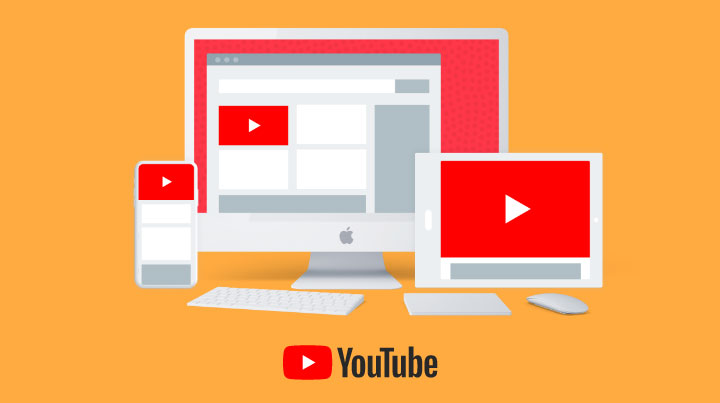
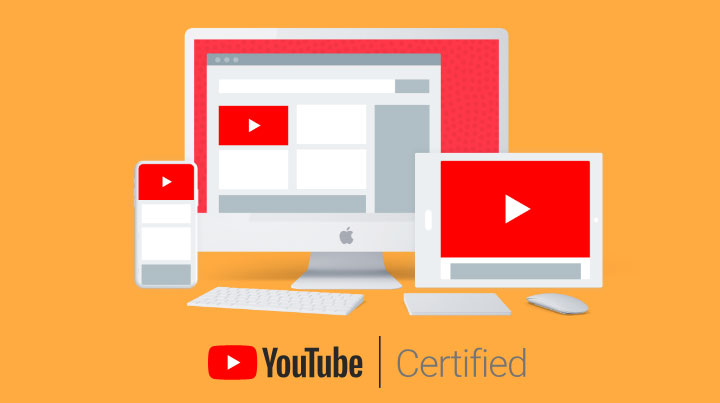
Removed headings and address footer. - Also updated the youtube image.

Changed region(s): [[0.275, 0.8337, 0.7333, 0.9529]]

diff --git a/index.html b/index.html
@@ -33,7 +33,7 @@
         }
         @media screen and (max-width: 630px) {
             br {
-                display: none !important;
+                /* display: none !important; */
             }
         }
         @media screen and (min-width: 630px) {
@@ -72,7 +72,7 @@
 
                     <!--------------------------------------------------------- Spacer -->
                     <tr>
-                        <td height="40"></td>
+                        <td height="20"></td>
                     </tr>
                     <!--------------------------------------------------------- Spacer -->
 
@@ -80,14 +80,14 @@
                         <td align="center" valign="top"
                             style="font-family: 'Raleway', sans-serif; font-size: 2.25em; font-weight: 700; text-align: center; line-height: 1; color: #000000;">
                             <span>
-                                Your Trusted YouTube <br> Creative Partner
+                                Your Trusted <br> YouTube Creative Partner
                             </span>
                         </td>
                     </tr>
 
                     <!--------------------------------------------------------- Spacer -->
                     <tr>
-                        <td height="20"></td>
+                        <td height="40"></td>
                     </tr>
                     <!--------------------------------------------------------- Spacer -->
 
@@ -126,21 +126,6 @@
 
                     <!--------------------------------------------------------- Spacer -->
                     <tr>
-                        <td height="40"></td>
-                    </tr>
-                    <!--------------------------------------------------------- Spacer -->
-
-                    <tr>
-                        <td align="center" valign="top"
-                            style="font-family: 'Raleway', sans-serif; font-size: 2.25em; font-weight: 700; text-align: center; line-height: 1; color: #000000;">
-                            <span>
-                                Kim Havens joins as <br> VP, Content Production
-                            </span>
-                        </td>
-                    </tr>
-
-                    <!--------------------------------------------------------- Spacer -->
-                    <tr>
                         <td height="20"></td>
                     </tr>
                     <!--------------------------------------------------------- Spacer -->
@@ -176,19 +161,6 @@
 
                     <!--------------------------------------------------------- Spacer -->
                     <tr>
-                        <td height="40"></td>
-                    </tr>
-                    <!--------------------------------------------------------- Spacer -->
-
-                    <tr>
-                        <td align="center" valign="top"
-                            style="font-family: 'Raleway', sans-serif; font-size: 2.25em; font-weight: 700; text-align: center; line-height: 1; color: #000000;">
-                            Much more to come!
-                        </td>
-                    </tr>
-
-                    <!--------------------------------------------------------- Spacer -->
-                    <tr>
                         <td height="20"></td>
                     </tr>
                     <!--------------------------------------------------------- Spacer -->
@@ -209,7 +181,8 @@
                         <td valign="top"
                             style="font-family: 'Roboto', sans-serif; font-size: 1em; line-height: 1.5; color: #000000;">
                             <p>We've been hard at work with new and emerging technology. Some of our projects include
-                                work in augmented reality, voice-enabled and visual search experiences. We're excited to
+                                work in augmented reality, voice-enabled and visual search experiences.</p>
+                            <p>We're excited to
                                 see them launch and even win awards. On the horizon are several more innovations we
                                 can't wait to share with you. As always, keep up with us on our social feeds! (links in
                                 the footer).</p>
@@ -218,7 +191,7 @@
 
                     <!--------------------------------------------------------- Spacer -->
                     <tr>
-                        <td height="40"></td>
+                        <td height="20"></td>
                     </tr>
                     <!--------------------------------------------------------- Spacer -->
 
@@ -233,36 +206,6 @@
 
                 <!-- Footer -->
                 <table border="0" cellpadding="0" cellspacing="0">
-
-                    <!--------------------------------------------------------- Spacer -->
-                    <tr>
-                        <td height="40"></td>
-                    </tr>
-                    <!--------------------------------------------------------- Spacer -->
-
-                    <tr>
-                        <td align="center" valign="top">
-                            <span style="font-family: 'Playfair Display', serif; font-size: 2.25em; color: #000000;">
-                                <i>Get in touch,</i>
-                            </span> <br>
-                            <span
-                                style="font-family: 'Raleway', sans-serif; font-size: 2.25em; font-weight: 700; text-align: center; line-height: 1; color: #000000;">
-                                We'd love to hear from you
-                            </span>
-                        </td>
-                    </tr>
-
-                    <!--------------------------------------------------------- Spacer -->
-                    <tr>
-                        <td height="40"></td>
-                    </tr>
-                    <!--------------------------------------------------------- Spacer -->
-
-                    <tr bgcolor="#19042d">
-                        <td align="center" class="hide" valign="top">
-                            <img width="100%" alt="laptop" src="http://www.rmu.gallery/js-internal-email/footer.jpg">
-                        </td>
-                    </tr>
 
                     <!--------------------------------------------------------- Spacer -->
                     <tr>
@@ -303,8 +246,7 @@
                     <tr>
                         <td valign="top"
                             style="font-family: 'Roboto', sans-serif; font-size: 1em; text-align: center; color: #000000;">
-                            <p>We're happy you're here, but if you don't want to hear from us you can </p>
-                            <a href="#" style="color: #6EE5B9;">Unsubscribe</a>
+                            <p><a href="#" style="color: #6EE5B9;">Unsubscribe</a></p>
                         </td>
                     </tr>
                 </table>
